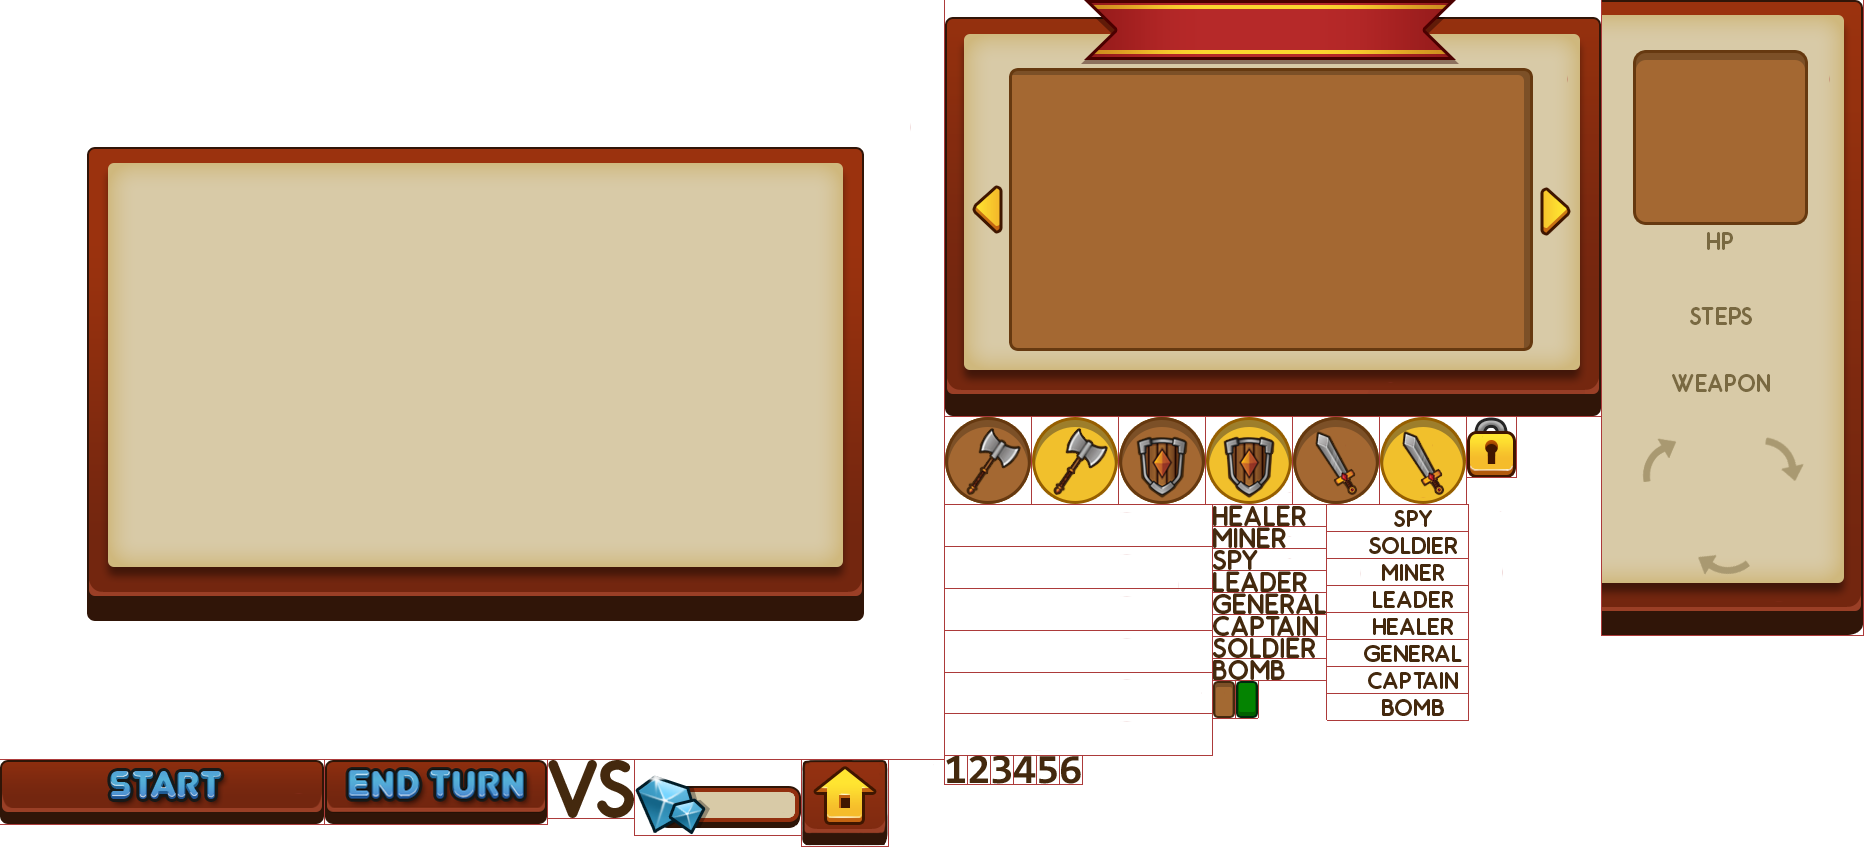
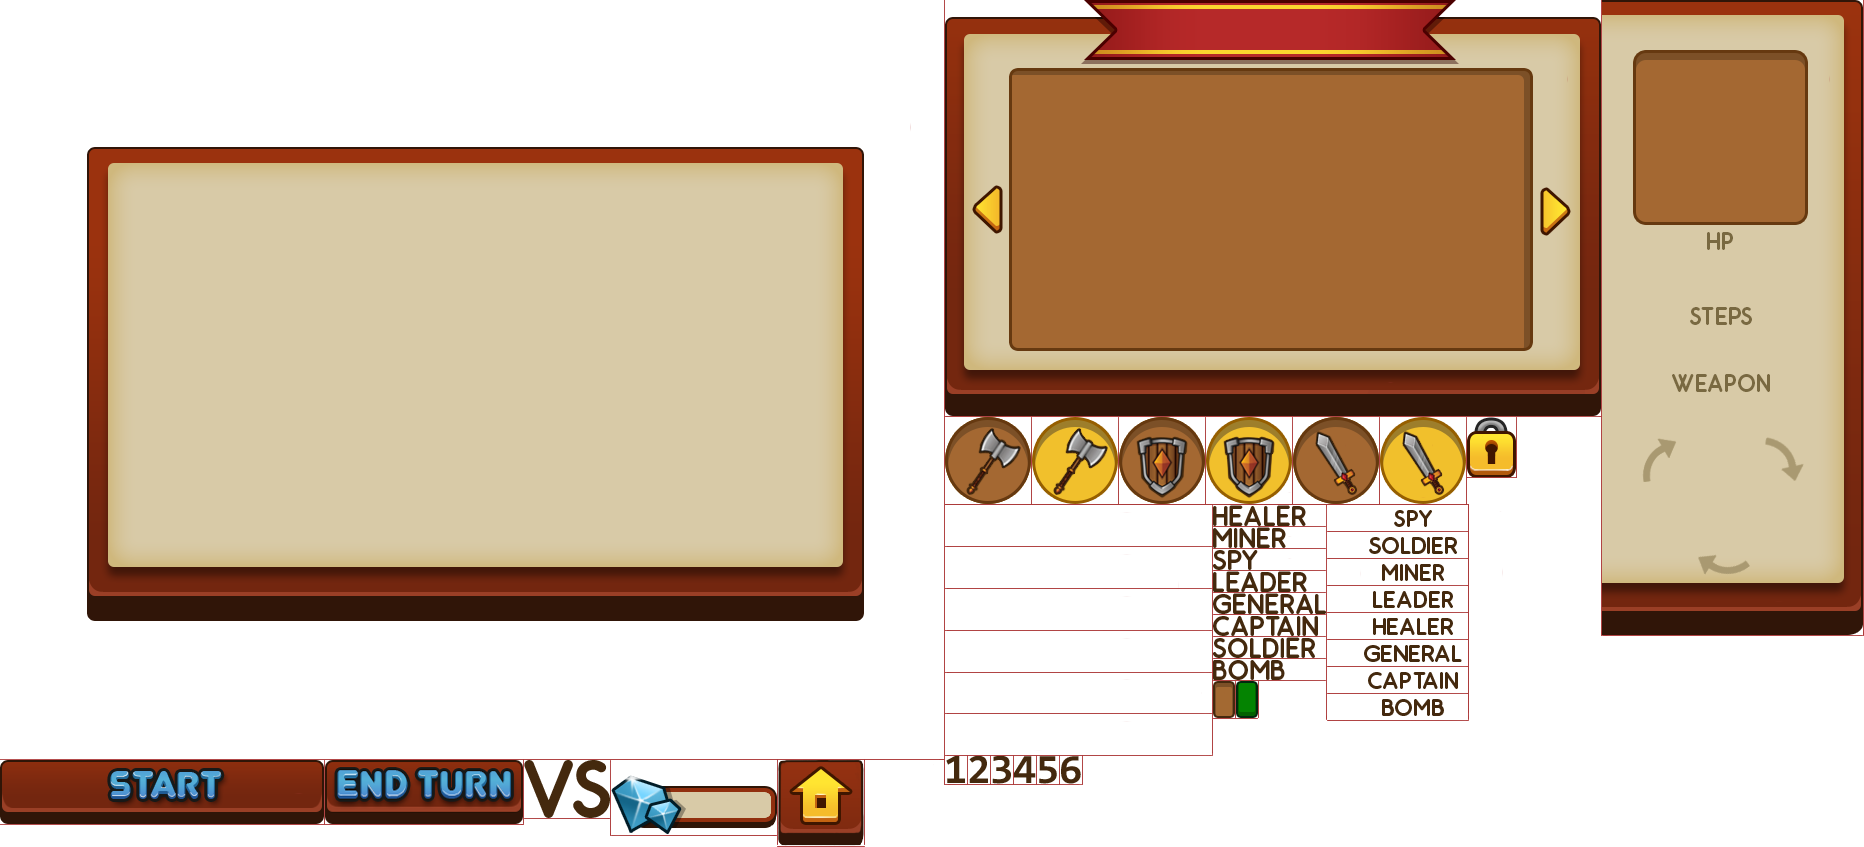
Added some more UI

Changed region(s): [[0.1556, 0.8902, 0.4979, 1.0]]

diff --git a/Proeve/Resources/ArtAssets.cs b/Proeve/Resources/ArtAssets.cs
@@ -40,9 +40,6 @@ namespace Proeve.Resources
         /* UI */
         private const string UI_SHEET = "UI_sheet";
 
-        // Buttons
-        private const string TESTBUTTON = "startButtonPlaceHolder";
-
         // ArmyEditor
 
         // Fighting
@@ -65,9 +62,6 @@ namespace Proeve.Resources
 
         /* UI */
         private static E2DTexture UISheet;
-
-        // Buttons
-        private static E2DTexture testButtonTexture;
 
         // Army Editor
 
@@ -99,7 +93,8 @@ namespace Proeve.Resources
         private static Sprite rankText;
 
         // Buttons
-        private static Sprite testButtonSprite;
+        private static Sprite startButtonSprite;
+        private static Sprite endTurnButtonSprite;
 
         // Figthing
         private static Sprite damageTextSprite;
@@ -133,23 +128,28 @@ namespace Proeve.Resources
 
         /* UI */
         public static Sprite CharacterInformationUI { get { return (Sprite)characterInformationUI.Clone(); } }
-        public static Sprite Healthbar { get { return (Sprite)healthbar; } }
-        public static Sprite StepCount { get { return (Sprite)stepCount; } }
+        public static Sprite Healthbar { get { return (Sprite)healthbar.Clone(); } }
+        public static Sprite StepCount { get { return (Sprite)stepCount.Clone(); } }
 
         // Buttons
-        public static Sprite TestButton { get { return (Sprite)testButtonSprite.Clone(); } }
+        public static Sprite StartButton { get { return (Sprite)startButtonSprite.Clone(); } }
+        public static Sprite EndTurnButton { get { return (Sprite)endTurnButtonSprite.Clone(); } }
 
         // ArmyEditor
-        public static Sprite SwordIcon { get { return (Sprite)swordIconSprite; } }
-        public static Sprite AxeIcon { get { return (Sprite)axeIconSprite; } }
-        public static Sprite ShieldIcon { get { return (Sprite)shieldIconSprite; } }
+        public static Sprite ArmyShowCase { get { return (Sprite)armyShowCase.Clone(); } }
+        public static Sprite SwordIcon { get { return (Sprite)swordIconSprite.Clone(); } }
+        public static Sprite AxeIcon { get { return (Sprite)axeIconSprite.Clone(); } }
+        public static Sprite ShieldIcon { get { return (Sprite)shieldIconSprite.Clone(); } }
 
         // Figthing
-        public static Sprite DamageTextSprite { get { return (Sprite)damageTextSprite; } }
+        public static Sprite DamageTextSprite { get { return (Sprite)damageTextSprite.Clone(); } }
+        public static Sprite FightPopUp { get { return(Sprite)fightingPopUp.Clone(); } }
 
         #endregion
         #region FONTS
+#if DEBUG
         public static SpriteFont normalFont;
+#endif
         #endregion
 
         public static void LoadTextures()
@@ -161,9 +161,6 @@ namespace Proeve.Resources
 
             /* UI */
             UISheet.Load(UI_PATH, UI_SHEET);
-
-            // Buttons
-            testButtonTexture.Load(UI_PATH, TESTBUTTON);
 
             // Fighting
             damageTextTexture.Load(FIGHTING_UI_PATH, DAMAGE_TEXT);
@@ -179,9 +176,8 @@ namespace Proeve.Resources
 
         public static void LoadFont(ContentManager contentManager)
         {
-            normalFont = contentManager.Load<SpriteFont>(FONT_PATH + FONT_NORMAL);
-
 #if DEBUG
+            normalFont = contentManager.Load<SpriteFont>(FONT_PATH + FONT_NORMAL);
             Debug.spriteFont = Globals.contentManager.Load<SpriteFont>(FONT_PATH + FONT_NORMAL);
 #endif
         }
@@ -210,9 +206,11 @@ namespace Proeve.Resources
             rankText = new Sprite(UISheet, new Rectangle(1327, 505, 141, 26), 8, 0f, 1, OnePixelInterspace);
 
             // Buttons
-            testButtonSprite = new Sprite(testButtonTexture, new Rectangle(0, 0, 64, 64), 2, 0f);
+            startButtonSprite = new Sprite(UISheet, new Rectangle(0, 760, 324, 64));
+            endTurnButtonSprite = new Sprite(UISheet, new Rectangle(325, 760, 198, 64));
 
             // Army Editor
+            armyShowCase = new Sprite(UISheet, new Rectangle(945, 0, 656, 416));
             axeIconSprite = new Sprite(UISheet, new Rectangle(945, 417, 86, 87), 2); axeIconSprite.Offset = new Point(1, 0); axeIconSprite.origin = axeIconSprite.Center;
             swordIconSprite = new Sprite(UISheet, new Rectangle(1293, 417, 86, 87), 2); swordIconSprite.Offset = new Point(1, 0); swordIconSprite.origin = axeIconSprite.Center;
             shieldIconSprite = new Sprite(UISheet, new Rectangle(1119, 417, 86, 87), 2); shieldIconSprite.Offset = new Point(1, 0); shieldIconSprite.origin = axeIconSprite.Center;
@@ -220,6 +218,9 @@ namespace Proeve.Resources
             // Fighting
             damageTextSprite = new Sprite(damageTextTexture, new Rectangle(0, 0, 181, 32), 3, 0f, 1);
             damageTextSprite.origin = damageTextSprite.Center;
+
+            fightingPopUp = new Sprite(UISheet, new Rectangle(0, 0, 944, 759));
+            fightingPopUp.origin = fightingPopUp.Center;
         }
     }
 }

diff --git a/Proeve/States/FightState.cs b/Proeve/States/FightState.cs
@@ -24,8 +24,11 @@ namespace Proeve.States
         private float hitInterval;
 
         // Readonly positions
-        private Vector2 MyAnimationPosition { get { return new Vector2(200, 340); } }
-        private Vector2 EnemyAnimationPosition { get { return new Vector2(Main.WindowWidth - 200, 340); } }
+        private Vector2 MyAnimationPosition { get { return new Vector2(300, 340); } }
+        private Vector2 EnemyAnimationPosition { get { return new Vector2(Main.WindowWidth - 300, 340); } }
+
+        private Vector2 MyAttackPosition { get { return new Vector2(300, 340); } }
+        private Vector2 EnemyAttackPosition { get { return new Vector2(300, 340); } }
 
         // Characters
         private Character character;
@@ -60,6 +63,9 @@ namespace Proeve.States
         // Timer
         private float timer;
         private const int ATTACK_INTERVAL = 500;
+
+        // UI
+        private Sprite background;
 
         public FightState()
         {
@@ -137,6 +143,9 @@ namespace Proeve.States
             flickerTimer = 0;
             flickerAmount = FLICKER_LIMIT;
             timer = 0;
+
+            // UI
+            background = ArtAssets.FightPopUp; background.position = Main.WindowCenter;
         }
         public void SetUnits(Character attacker, Character defender)
         {
@@ -313,11 +322,14 @@ namespace Proeve.States
 
         public override void Draw(SpriteBatch spriteBatch)
         {
+            // Background
             StateManager.GetState(2).Draw(spriteBatch);
-
             spriteBatch.DrawRectangle(Main.WindowRectangle, Color.Black * .5f);
 
-            if (character.IsDead)
+            // UI
+            background.Draw(spriteBatch);
+
+            /*if (character.IsDead)
                 spriteBatch.DrawDebugText("Lost", 100, 120, Color.White);
             else if (enemyCharacter.IsDead)
                 spriteBatch.DrawDebugText("Win", 100, 120, Color.White);
@@ -328,7 +340,7 @@ namespace Proeve.States
 
             spriteBatch.DrawDebugText("Time: " + currentAnimation.Time, 120, 700, Color.White);
             spriteBatch.DrawDebugText(currentAnimation.AnimationName, 120, 718, Color.White);
-            spriteBatch.DrawDebugText("turn: " + myAttackTurn, 120, 732, Color.White);
+            spriteBatch.DrawDebugText("turn: " + myAttackTurn, 120, 732, Color.White);*/
         }
 
         public override void DrawAnimation(Spine.SkeletonMeshRenderer skeletonRenderer)

diff --git a/Proeve/UI/Button.cs b/Proeve/UI/Button.cs
@@ -21,7 +21,7 @@ namespace Proeve.UI
         private Sprite graphic;
         private Rectangle hitbox;
 
-        public bool Down{ get { return graphic.CurrentFrame == 2; } }
+        public bool Down { get; private set; }
 
         public Button(Sprite graphic)
         {
@@ -32,6 +32,8 @@ namespace Proeve.UI
             this.graphic = graphic;
 
             this.graphic.position = new Vector2(hitbox.X, hitbox.Y);
+
+            this.Down = false;
         }
 
         public Button(Sprite graphic, Rectangle hitbox)
@@ -40,6 +42,8 @@ namespace Proeve.UI
             this.hitbox = hitbox;
 
             this.graphic.position = new Vector2(hitbox.X, hitbox.Y);
+
+            this.Down = false;
         }
 
         public Button(Sprite graphic, Vector2 position)
@@ -48,6 +52,8 @@ namespace Proeve.UI
             this.hitbox = new Rectangle((int)position.X, (int)position.Y, graphic.texture.Width, graphic.texture.Height);
 
             this.graphic.position = new Vector2(position.X, position.Y);
+
+            this.Down = false;
         }
 
         public Button(Sprite graphic, int x, int y)
@@ -61,13 +67,16 @@ namespace Proeve.UI
             if (Globals.mouseState.LeftButtonPressed)
             {
                 if (hitbox.Contains(Globals.mouseState.Position))
-                    graphic.CurrentFrame = 2;
+                    Down = true;
             }
             if (Globals.mouseState.LeftButtonReleased){
-                if (ClickEvent != null && graphic.CurrentFrame == 2)
-                    ClickEvent();
+                if (Down)
+                {
+                    if (ClickEvent != null && hitbox.Contains(Globals.mouseState.Position))
+                        ClickEvent();
 
-                graphic.CurrentFrame = 1;
+                    Down = false;
+                }
             }
         }
 

diff --git a/Proeve/States/ArmyEditorState.cs b/Proeve/States/ArmyEditorState.cs
@@ -19,6 +19,10 @@ namespace Proeve.States
 {
     class ArmyEditorState : State
     {
+        // Read Only Positions
+        public Vector2 ArmyShowCasePosition { get { return new Vector2(334, 10); } }
+        public Vector2 StartButtonPosition { get { return new Vector2(498, 695); } }
+
         // Character
         private Color SelectedColor { get { return Color.Black * .65f; } }
 
@@ -31,6 +35,7 @@ namespace Proeve.States
 
         // UI
         private StatsUI statsUI;
+        private Sprite armyShowCase;
 
         // Grid
         private Point gridLocation;
@@ -65,8 +70,11 @@ namespace Proeve.States
             statsUI = new StatsUI();
             Globals.statsUI = statsUI;
 
+            armyShowCase = ArtAssets.ArmyShowCase;
+            armyShowCase.position = ArmyShowCasePosition;
+
             // Set buttons
-            buttons.Add(new Button(ArtAssets.TestButton, 24, 24));
+            buttons.Add(new Button(ArtAssets.StartButton, StartButtonPosition));
             buttons[0].ClickEvent += Ready;
 
             Armies.army = new List<Character>();
@@ -189,6 +197,7 @@ namespace Proeve.States
 
             // UI
             statsUI.Draw(spriteBatch);
+            armyShowCase.Draw(spriteBatch);
 
             // Draw all character chips
             foreach(Character c in Armies.army)

diff --git a/Proeve/States/GameUIState.cs b/Proeve/States/GameUIState.cs
@@ -18,6 +18,8 @@ namespace Proeve.States
 {
     class GameUIState : State
     {
+        private Vector2 EndTurnButtonPosition { get { return new Vector2(815, 695); } }
+
         private bool IsTurn { get { return Globals.multiplayerConnection.myTurn; } }
         private int selected = -1;
         private List<bool> canMove;
@@ -37,7 +39,7 @@ namespace Proeve.States
         {
             statsUI = Globals.statsUI;
 
-            buttons.Add(new Button(ArtAssets.TestButton, Main.WindowWidth - ArtAssets.TestButton.sourceRectangle.Width, Main.WindowHeight - ArtAssets.TestButton.sourceRectangle.Height));
+            buttons.Add(new Button(ArtAssets.EndTurnButton, EndTurnButtonPosition));
             buttons[0].ClickEvent = EndTurn;
 
             SetMovable();
